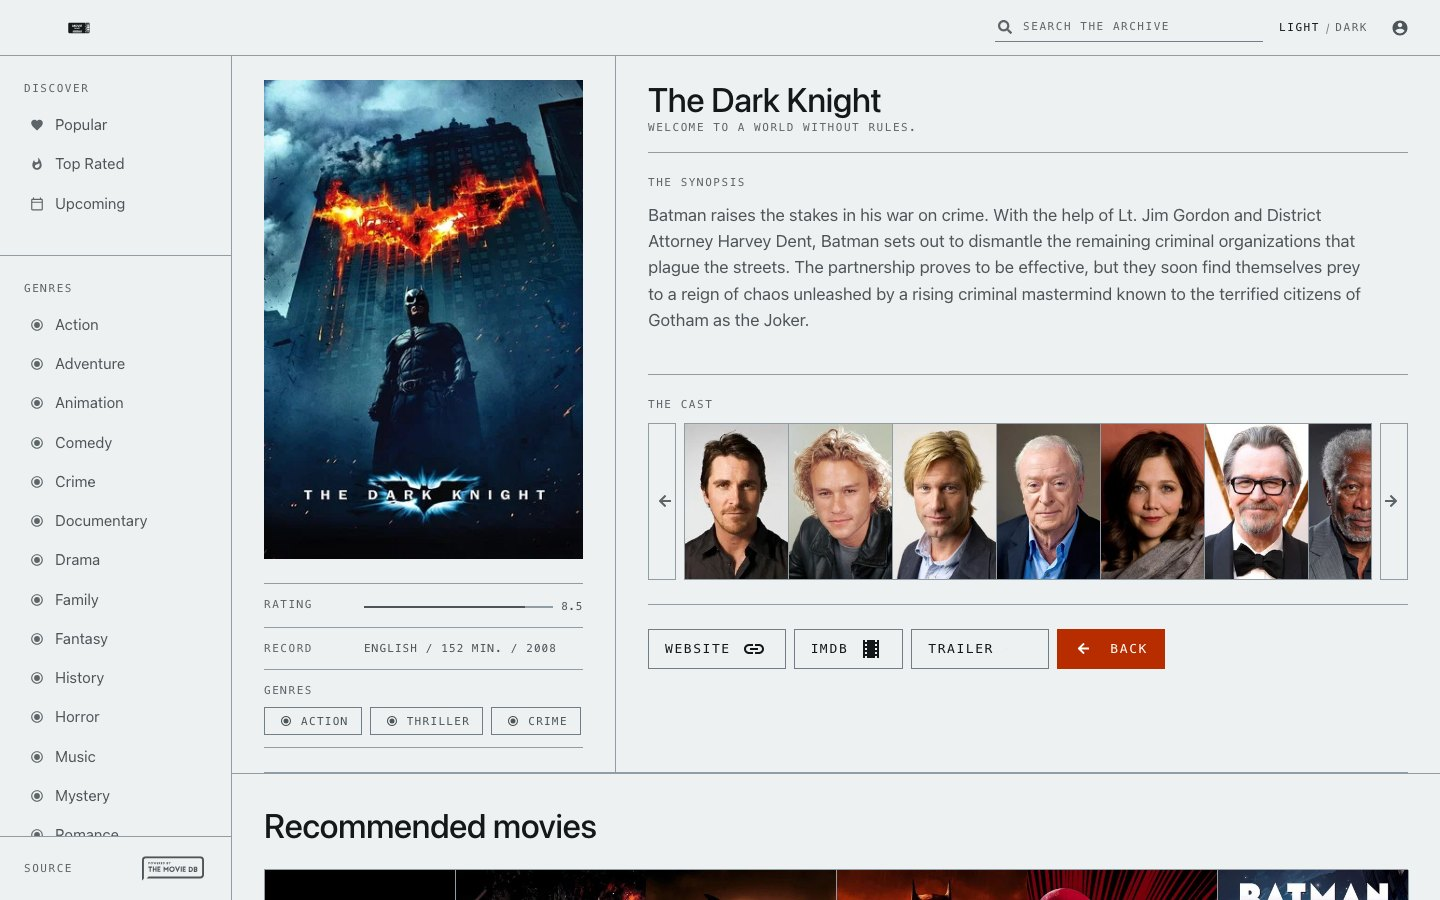
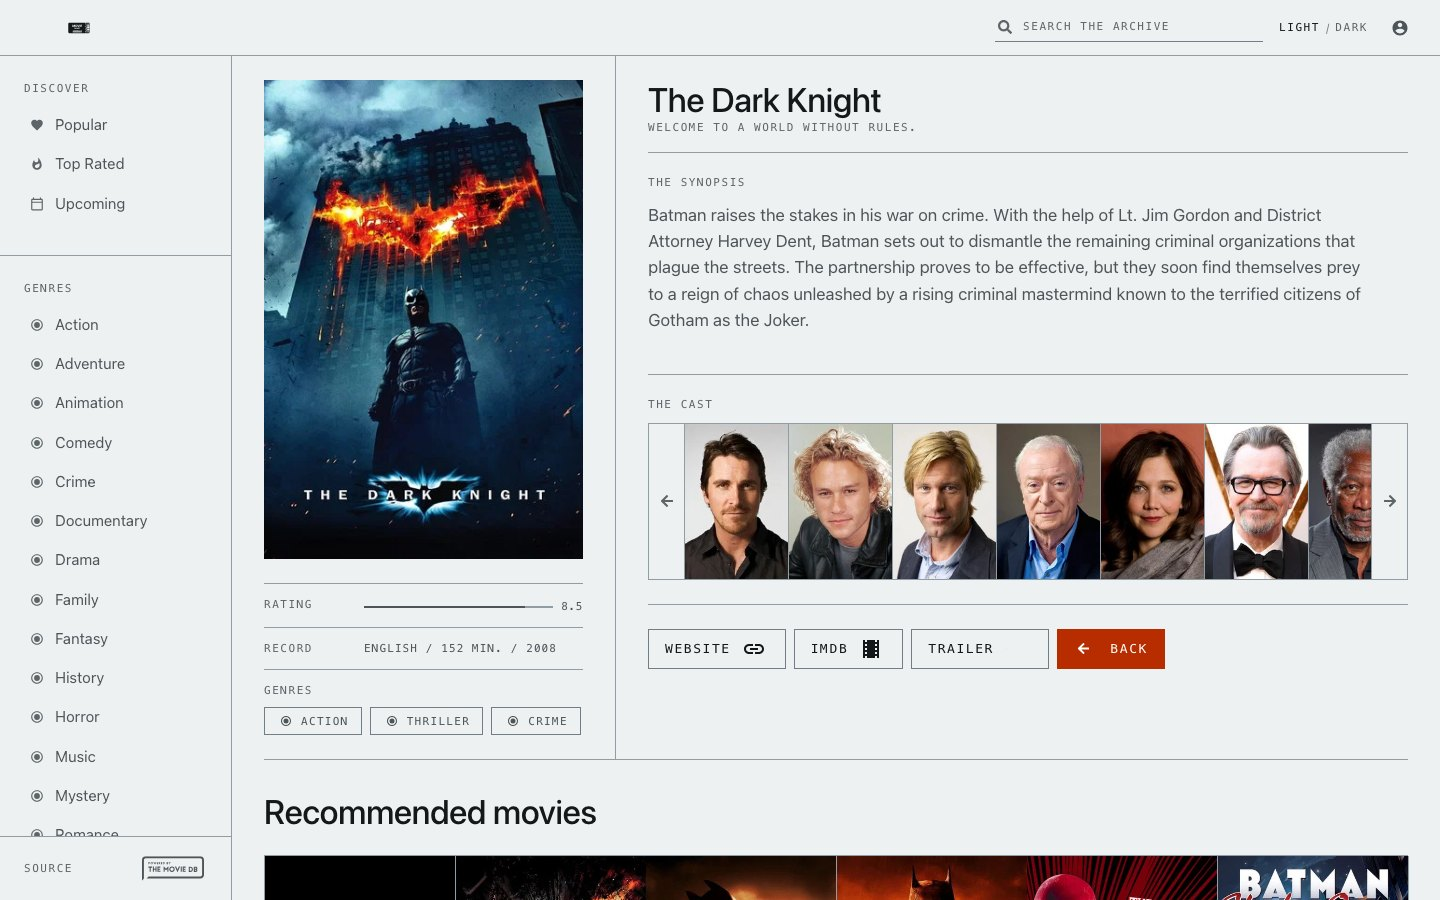
fix(ui): close the card's seams and give the person page its record
- The card's bottom rule and the recommendations' top rule landed on the
  same pixel row, so the seam between them read as one 2px line heavier
  than every other rule on the sheet. The card closes itself.
- The cast scroll controls were separate bordered boxes flanking the
  strip, which read as two empty frames either side of the cast. One
  frame now holds the strip and two control cells divided by a hairline.
- The last row of the record block drew a rule 24px above the column's
  own bottom rule. It lets the card close it.
- The person page carried the same empty column the movie card used to.
  It gets the same accession block, from the record the archive holds on
  a person: born, died where recorded, and place of birth. The birthday
  leaves the header, which now carries only the name.

Changed region(s): [[0.1875, 0.84, 1.0, 1.0]]

diff --git a/src/app/pages/movie-detail-page/movie-detail-page.component.scss b/src/app/pages/movie-detail-page/movie-detail-page.component.scss
@@ -35,6 +35,13 @@
   gap: var(--s-2);
 }
 
+/* The card's own bottom rule closes the block, so the last row does not add
+   a second one 24px above it. */
+.facts--row:last-child {
+  border-bottom: none;
+  padding-bottom: 0;
+}
+
 .facts dt {
   margin: 0;
 }
@@ -82,19 +89,23 @@
 
 /* ─── cast: a filmstrip, scrolled by the sheet's own rules ─── */
 
+/* One framed strip containing two control cells — previously the buttons
+   were separate bordered boxes flanking it, which read as two empty frames
+   either side of the cast. */
 .movie-detail--cast-list {
   display: flex;
   align-items: stretch;
-  gap: var(--s-2);
+  gap: 0;
+  border: var(--hair) solid var(--rule);
 }
 
 .cast-list {
   display: flex;
   gap: 0;
   flex: 1 1 auto;
+  min-width: 0;
   overflow-x: auto;
   scroll-snap-type: x proximity;
-  border: var(--hair) solid var(--rule);
 }
 
 .movie-detail--cast-actor {
@@ -115,17 +126,28 @@
 
 .cast-list--btn {
   flex: 0 0 auto;
-  width: 28px;
-  border: var(--hair) solid var(--rule);
+  display: grid;
+  place-items: center;
+  width: 36px;
+  border: none;
   background: none;
   color: var(--ink-faint);
   cursor: pointer;
-  font-family: var(--font-code);
+  transition: color var(--step) var(--step-fn),
+    background-color var(--step) var(--step-fn);
+}
+
+.cast-list--btn-prev {
+  border-right: var(--hair) solid var(--rule);
+}
+
+.cast-list--btn-next {
+  border-left: var(--hair) solid var(--rule);
 }
 
 .cast-list--btn:hover {
   color: var(--mark);
-  border-color: var(--rule-strong);
+  background: var(--ply-1);
 }
 
 /* One drawn glyph serves both directions; the forward control turns it.
@@ -190,7 +212,8 @@
 
 .recommendations {
   display: block;
-  border-top: var(--hair) solid var(--rule);
+  /* No border-top: the card above closes itself, and the two rules landed on
+     the same pixel row and read as one 2px rule heavier than every other. */
 }
 
 .recommendations > header {

diff --git a/src/app/pages/person-detail-page/person-detail-page.component.html b/src/app/pages/person-detail-page/person-detail-page.component.html
@@ -14,11 +14,31 @@
           [title]="person?.name"
           data-uf="hero-img"
         />
+
+        <!-- The same accession block the movie card carries, from the record
+             the archive actually holds on a person. -->
+        <dl class="facts">
+          <div class="facts--row">
+            <dt class="code">Born</dt>
+            <dd class="figure">{{ person.birthday || 'Unrecorded' }}</dd>
+          </div>
+          @if (person.deathday) {
+            <div class="facts--row">
+              <dt class="code">Died</dt>
+              <dd class="figure">{{ person.deathday }}</dd>
+            </div>
+          }
+          @if (person.place_of_birth) {
+            <div class="facts--row">
+              <dt class="code">From</dt>
+              <dd>{{ person.place_of_birth }}</dd>
+            </div>
+          }
+        </dl>
       </div>
       <div detailGridDescription>
         <header>
           <h1>{{ person.name }}</h1>
-          <p class="header--label code">{{ person.birthday }}</p>
         </header>
         <section>
           <h3>The Biography</h3>

diff --git a/src/app/pages/person-detail-page/person-detail-page.component.scss b/src/app/pages/person-detail-page/person-detail-page.component.scss
@@ -9,6 +9,54 @@
   gap: var(--s-2);
 }
 
+/* The accession block under the photograph, matching the movie card. */
+.facts {
+  margin: var(--s-5) 0 0;
+  border-top: var(--hair) solid var(--rule);
+}
+
+.facts--row {
+  display: grid;
+  grid-template-columns: 5.5rem 1fr;
+  align-items: baseline;
+  gap: var(--s-3);
+  padding: var(--s-3) 0;
+  border-bottom: var(--hair) solid var(--rule);
+}
+
+.facts--row:last-child {
+  border-bottom: none;
+  padding-bottom: 0;
+}
+
+.facts dt {
+  margin: 0;
+}
+
+.facts dd {
+  margin: 0;
+  min-width: 0;
+  font-size: var(--t-fine);
+  color: var(--ink-dim);
+}
+
+.facts .figure {
+  font-size: var(--t-code);
+  letter-spacing: 0.1em;
+  text-transform: uppercase;
+}
+
+@media (min-width: 30rem) and (max-width: 55.999rem) {
+  .facts {
+    margin-top: 0;
+    border-top: none;
+  }
+
+  .facts--row:first-child {
+    padding-top: 0;
+  }
+}
+
 /* The sort control is a control, not a banner: it takes the width it needs
    and sits on one line with its label. */
 .sort {
